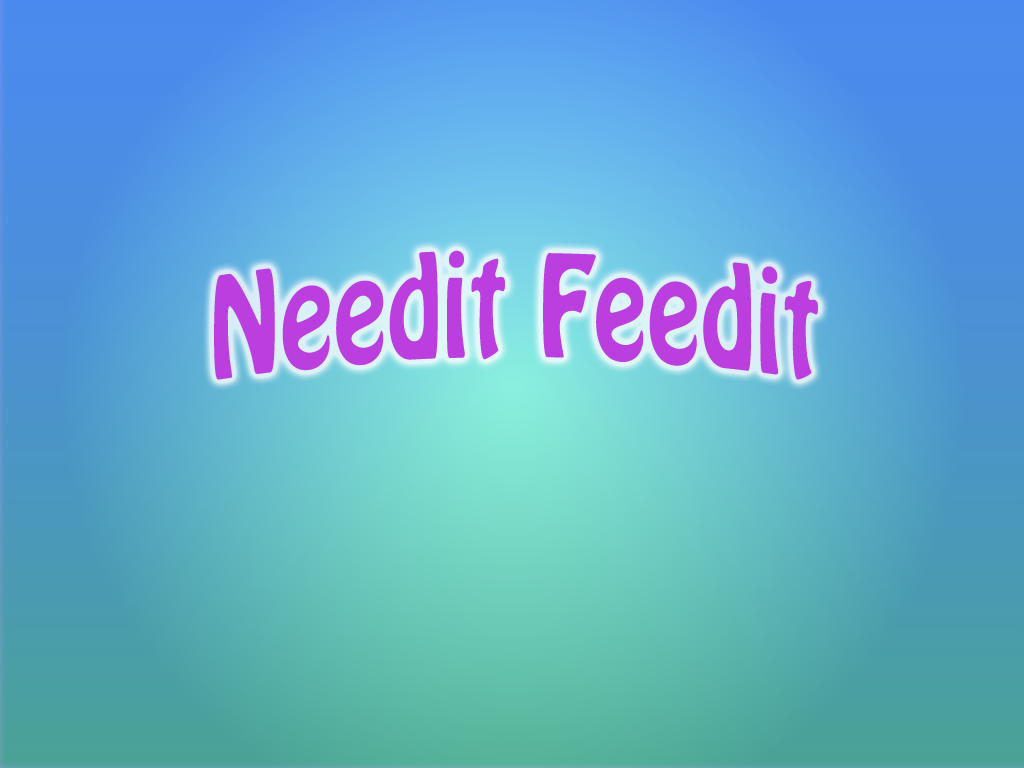
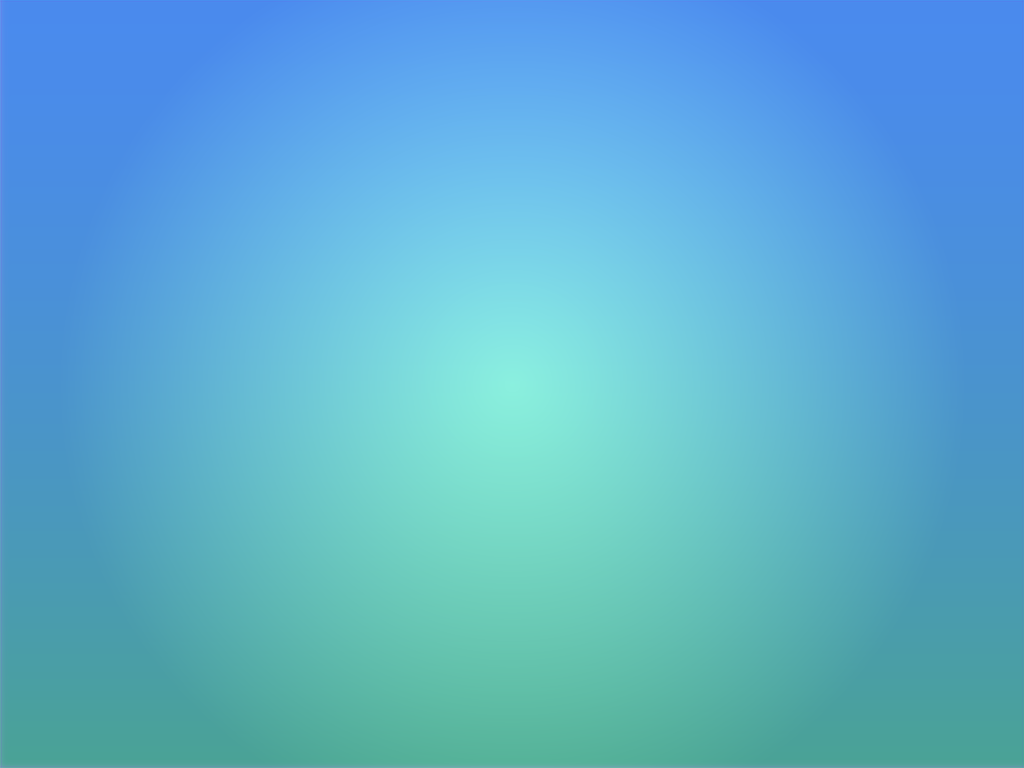
changed background images for credits/instructions

Changed region(s): [[0.1875, 0.3125, 0.8125, 0.5]]

diff --git a/NeeditFeeditCocos/InstructionsLayer.m b/NeeditFeeditCocos/InstructionsLayer.m
@@ -26,7 +26,7 @@
         CGSize size = [[CCDirector sharedDirector] winSize];
         
         // Create Instructions Background
-        CCSprite *background = [CCSprite spriteWithFile:@"background5.png"];
+        CCSprite *background = [CCSprite spriteWithFile:@"background6.png"];
         background.position = ccp(size.width/2, size.height/2);
         [self addChild:background];
         

diff --git a/NeeditFeeditCocos/CreditsLayer.m b/NeeditFeeditCocos/CreditsLayer.m
@@ -26,7 +26,7 @@
         CGSize size = [[CCDirector sharedDirector] winSize];
         
         // Create Instructions Background
-        CCSprite *background = [CCSprite spriteWithFile:@"background5.png"];
+        CCSprite *background = [CCSprite spriteWithFile:@"background6.png"];
         background.position = ccp(size.width/2, size.height/2);
 
         [self addChild:background];
